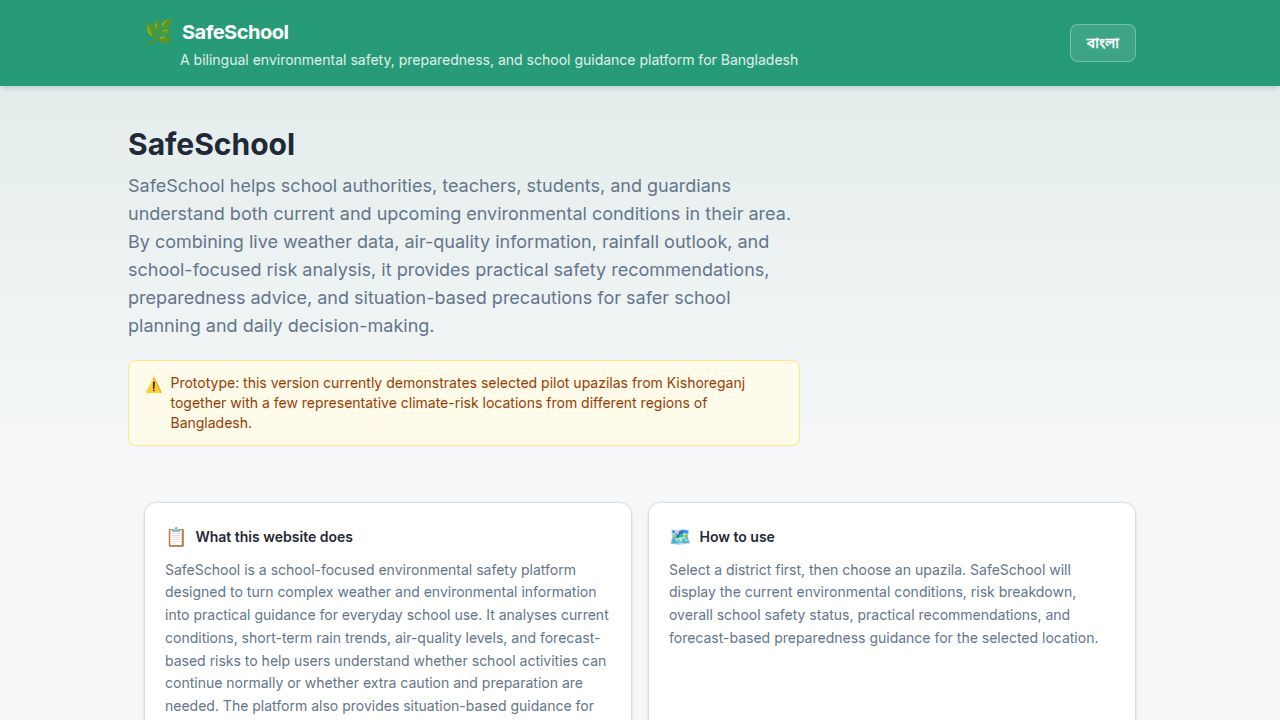
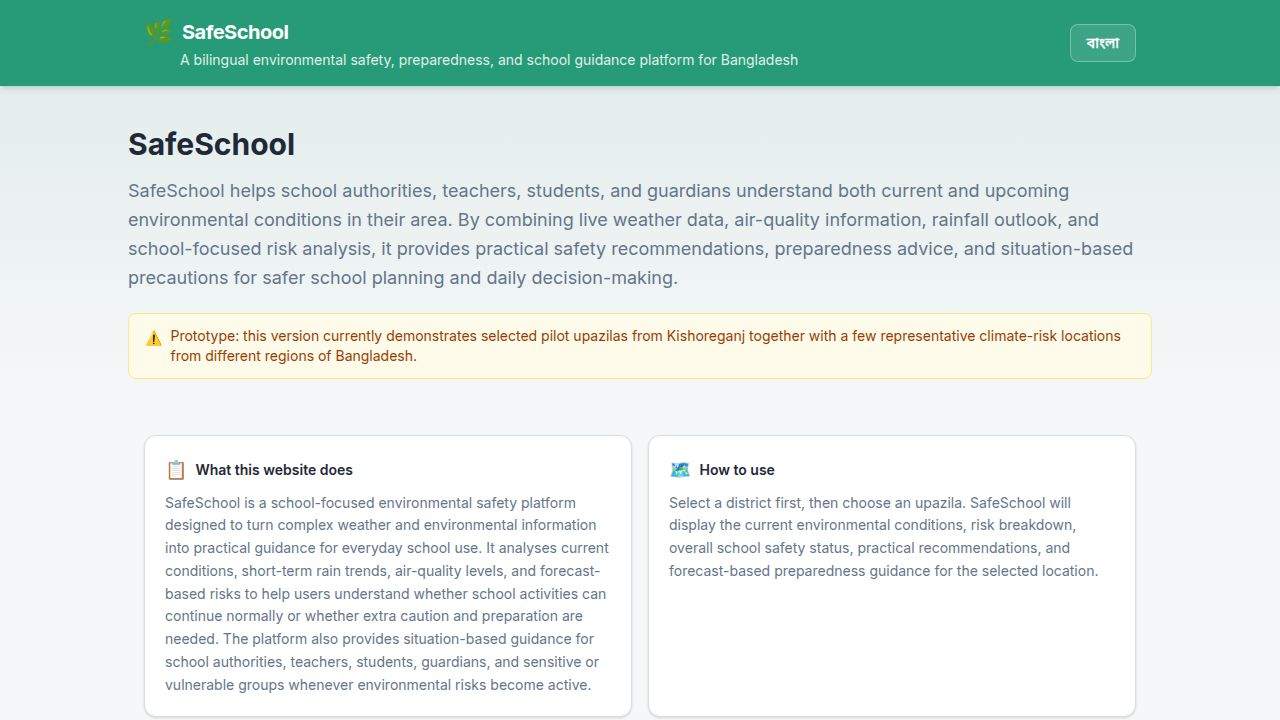
feat: let admins clear individual content overrides to restore defaults (task #49)
## What changed

### Backend (artifacts/api-server/src/routes/settings.ts)
- Modified the PUT /api/settings endpoint to treat empty string values as deletions
- When a field value is "" (or whitespace-only), the key is now deleted from site_settings
  instead of being saved as an empty string
- Non-empty values continue to be upserted as before
- Response now includes `deleted` count alongside `updated` count

### Frontend (artifacts/schoolsafe-bd/src/pages/Admin.tsx)
- Added "Reset to default" button to bilingual FieldRow component
  - Button appears only when at least one of EN or BN has a value (hasOverride)
  - Clicking it clears both EN and BN inputs to empty string in the draft
  - Button disappears once the field is cleared
- Added "Reset to default" button to SingleFieldRow component (Contact section)
  - Button appears only when the field has a non-empty value
  - Clicking it clears the field to empty string in the draft
- Updated the info note banner to mention the Reset to default button
- Updated placeholder text: "Leave blank to hide / use default"

## Approach
Used the "empty string = no override" approach from the task spec. Admins click
"Reset to default" → field clears in the UI → "Save All Changes" → server deletes
that key from the DB → homepage reverts to built-in translation defaults.

Replit-Task-Id: 44837ef3-ce98-47f7-904a-1a8df60e1486

## No deviations from task spec

Changed region(s): [[0.0938, 0.2444, 0.9062, 1.0], [0.875, 0.4278, 0.9062, 0.4583]]

diff --git a/artifacts/schoolsafe-bd/src/pages/Admin.tsx b/artifacts/schoolsafe-bd/src/pages/Admin.tsx
@@ -173,14 +173,33 @@ function FieldRow({
   const inputClass =
     "w-full border border-border rounded-lg px-3 py-2 text-sm bg-background text-foreground focus:outline-none focus:ring-2 focus:ring-primary resize-y";
 
+  const hasOverride = enValue.trim() !== "" || bnValue.trim() !== "";
+
+  function handleReset() {
+    onChangeEn("");
+    onChangeBn("");
+  }
+
   return (
     <div className="space-y-1">
-      <p className="text-xs font-semibold text-muted-foreground uppercase tracking-wide">
-        {label}
-        <span className="ml-2 font-normal text-xs text-muted-foreground/60 normal-case">
-          ({fieldKey})
-        </span>
-      </p>
+      <div className="flex items-center justify-between gap-2">
+        <p className="text-xs font-semibold text-muted-foreground uppercase tracking-wide">
+          {label}
+          <span className="ml-2 font-normal text-xs text-muted-foreground/60 normal-case">
+            ({fieldKey})
+          </span>
+        </p>
+        {hasOverride && (
+          <button
+            type="button"
+            onClick={handleReset}
+            className="text-xs text-red-500 hover:text-red-700 hover:underline transition-colors shrink-0"
+            title="Clear this override and restore the built-in default"
+          >
+            Reset to default
+          </button>
+        )}
+      </div>
       <div className="grid sm:grid-cols-2 gap-3">
         <div>
           <p className="text-xs text-muted-foreground mb-1">English</p>
@@ -243,20 +262,34 @@ function SingleFieldRow({
   const inputClass =
     "w-full border border-border rounded-lg px-3 py-2 text-sm bg-background text-foreground focus:outline-none focus:ring-2 focus:ring-primary";
 
+  const hasOverride = value.trim() !== "";
+
   return (
     <div className="space-y-1">
-      <p className="text-xs font-semibold text-muted-foreground uppercase tracking-wide">
-        {label}
-        <span className="ml-2 font-normal text-xs text-muted-foreground/60 normal-case">
-          ({fieldKey})
-        </span>
-      </p>
+      <div className="flex items-center justify-between gap-2">
+        <p className="text-xs font-semibold text-muted-foreground uppercase tracking-wide">
+          {label}
+          <span className="ml-2 font-normal text-xs text-muted-foreground/60 normal-case">
+            ({fieldKey})
+          </span>
+        </p>
+        {hasOverride && (
+          <button
+            type="button"
+            onClick={() => onChange("")}
+            className="text-xs text-red-500 hover:text-red-700 hover:underline transition-colors shrink-0"
+            title="Clear this override and restore the built-in default"
+          >
+            Reset to default
+          </button>
+        )}
+      </div>
       <input
         type="text"
         value={value}
         onChange={(e) => onChange(e.target.value)}
         className={inputClass}
-        placeholder="Leave blank to hide"
+        placeholder="Leave blank to hide / use default"
       />
     </div>
   );
@@ -344,7 +377,7 @@ function Editor({
       {/* Content sections */}
       <div className="max-w-4xl mx-auto px-4 py-8 space-y-10">
         <div className="bg-amber-50 border border-amber-200 rounded-lg px-4 py-3 text-sm text-amber-800">
-          <strong>Note:</strong> Leaving a field blank uses the built-in default text. Fill in only the fields you want to override.
+          <strong>Note:</strong> Leaving a field blank uses the built-in default text. Fill in only the fields you want to override. Use the <strong>Reset to default</strong> button on any field to clear your override — the change takes effect when you save.
         </div>
 
         {SECTIONS.map((section) => (

diff --git a/artifacts/api-server/src/routes/settings.ts b/artifacts/api-server/src/routes/settings.ts
@@ -39,7 +39,14 @@ router.put("/settings", async (req: Request, res: Response) => {
       ([, v]) => typeof v === "string",
     ) as [string, string][];
 
-    for (const [key, value] of entries) {
+    const toDelete = entries.filter(([, v]) => v.trim() === "").map(([k]) => k);
+    const toUpsert = entries.filter(([, v]) => v.trim() !== "");
+
+    for (const key of toDelete) {
+      await db.delete(siteSettingsTable).where(eq(siteSettingsTable.key, key));
+    }
+
+    for (const [key, value] of toUpsert) {
       await db
         .insert(siteSettingsTable)
         .values({ key, value })
@@ -49,7 +56,7 @@ router.put("/settings", async (req: Request, res: Response) => {
         });
     }
 
-    res.json({ ok: true, updated: entries.length });
+    res.json({ ok: true, updated: toUpsert.length, deleted: toDelete.length });
   } catch (err) {
     res.status(500).json({ error: "Failed to save settings" });
   }